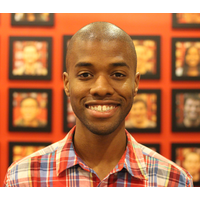
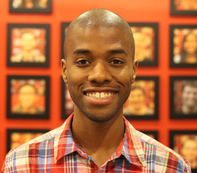
added team alpha pictures and profiles to team alpha current team page

diff --git a/team-alpha.html b/team-alpha.html
@@ -30,7 +30,7 @@ redirect_from:
                                 <li>
                                     <figure>
 
-                                        <img src="\assets\img\teamalpha\TA_minified\{{member.name | downcase | remove: " "}}_wall.png" alt="{{member.name}}" style="border-radius:2%">
+                                        <img id="team-alpha-wall-picture" src="\assets\img\teamalpha\TA_minified\{{member.name | downcase | remove: " "}}_wall.png" alt="{{member.name}}" style="border-radius:2%">
 
                                         <figcaption style="overflow: auto;">
 

diff --git a/impact_report.html b/impact_report.html
@@ -66,7 +66,7 @@ body {
 </div>
 
 <!-- <div class="section" id="1">
-  <img src="/assets/img/IR2/1.png" />
+  <img src="/assets/img/IR2/1.png"/>
   <ul class="nav">
     <li><a class="left"><i class="fa fa-angle-left"></i></a></li>
     <li><a class="right"><i class="fa fa-angle-right" ></i></a></li>

diff --git a/assets/css/main.css b/assets/css/main.css
@@ -1529,6 +1529,15 @@ div#mc_embed_signup {
 	font-size: 17px;
 }
 
+/**
+ * Team alpha wall pictures for current team
+ **/
+
+#team-alpha-wall-picture{
+	width: 200px;
+	height: 200px;
+}
+
 
 /**
 *Members Styling
